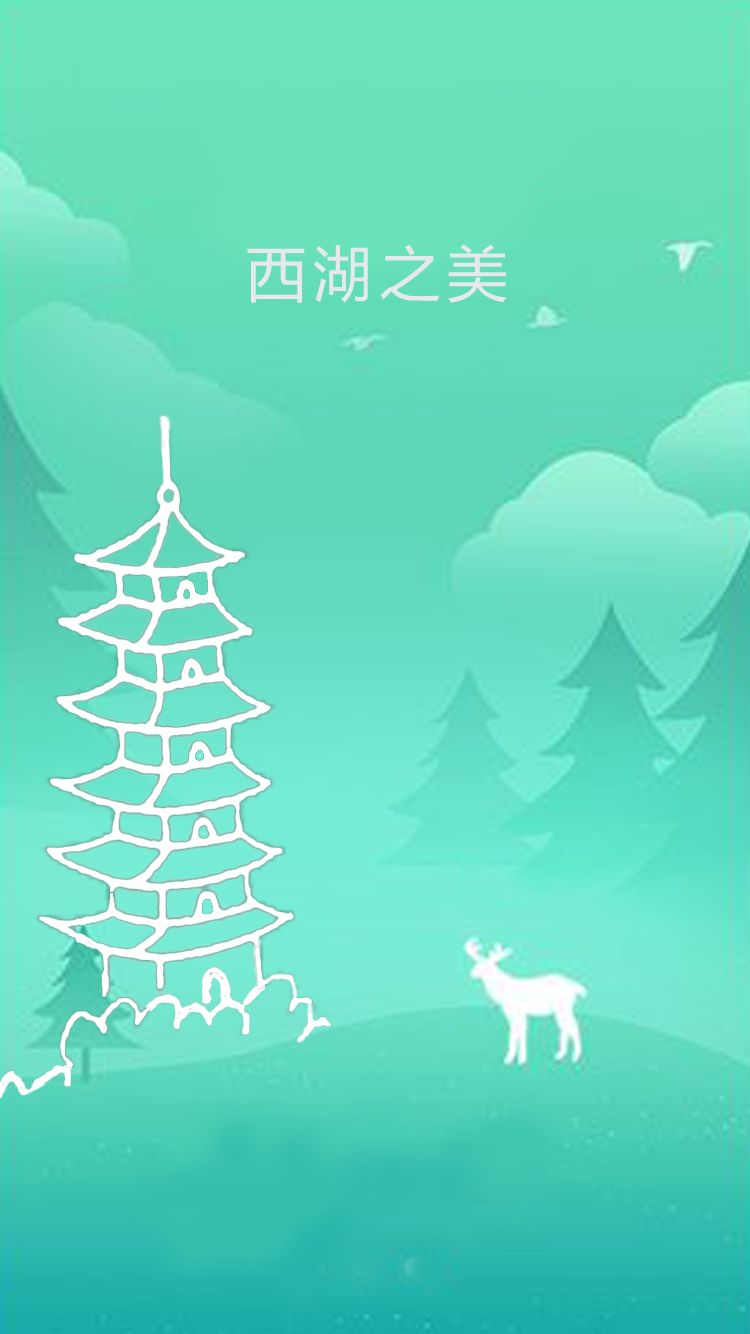
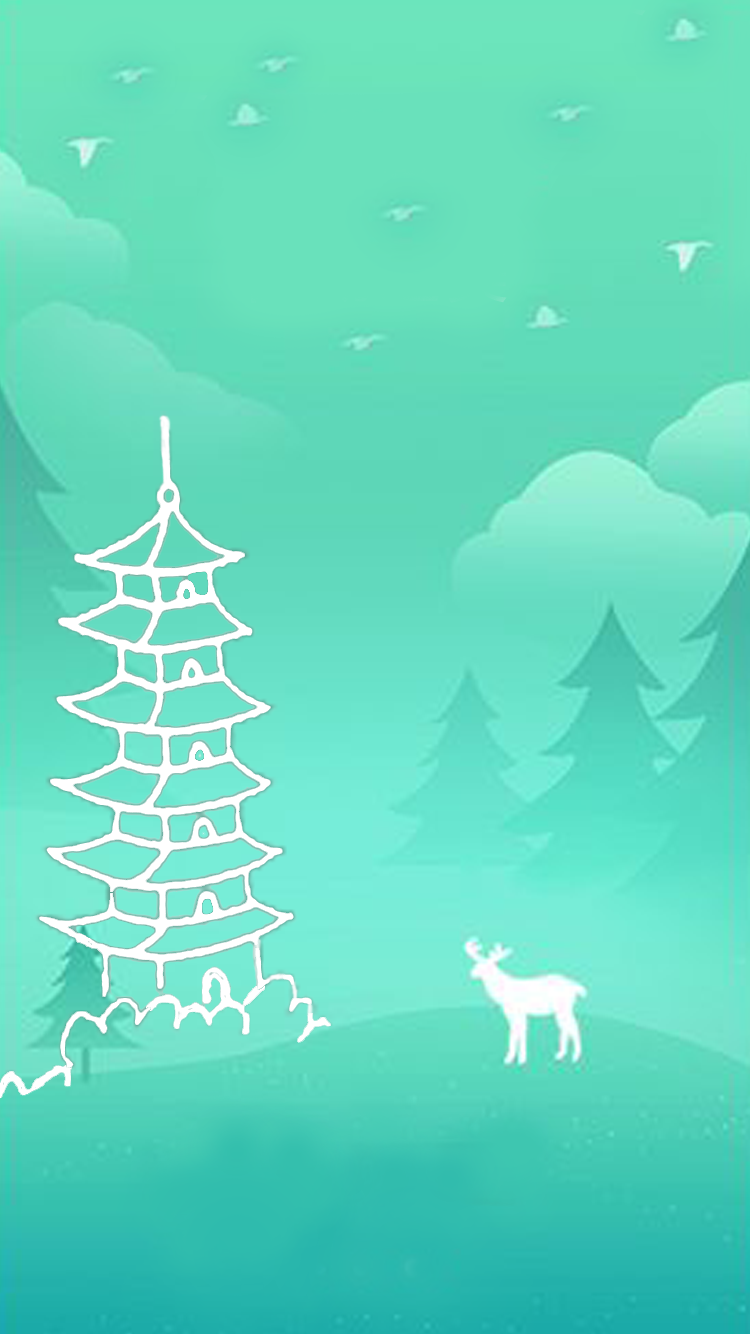
'b'

diff --git a/css/index.css b/css/index.css
@@ -80,72 +80,65 @@ html, body {
     background-image: url("../img/flash/flash1.png");
     background-size: cover;
     background-repeat: no-repeat; }
-    .swiper-container .swiper-wrapper .swiper-slide:nth-child(1) .bg11 {
-      width: 6.7rem;
-      height: 7rem;
-      margin: 2.8rem auto 0;
-      background-image: url("../img/flash/11.png");
-      background-size: cover;
-      background-repeat: no-repeat; }
   .swiper-container .swiper-wrapper .swiper-slide:nth-child(2) {
     background-image: url("../img/flash/flash2.png");
     background-size: cover;
     background-repeat: no-repeat; }
-    .swiper-container .swiper-wrapper .swiper-slide:nth-child(2) .bg11 {
-      width: 6.9rem;
-      height: 6.9rem;
-      margin: 2.8rem auto 0;
-      background-image: url("../img/flash/22.png");
-      background-size: cover;
-      background-repeat: no-repeat; }
   .swiper-container .swiper-wrapper .swiper-slide:nth-child(3) {
     background-image: url("../img/flash/flash3.png");
     background-size: cover;
     background-repeat: no-repeat; }
-    .swiper-container .swiper-wrapper .swiper-slide:nth-child(3) .bg11 {
-      width: 6.9rem;
-      height: 6.9rem;
-      margin: 2.8rem auto 0;
-      background-image: url("../img/flash/33.png");
-      background-size: cover;
-      background-repeat: no-repeat; }
   .swiper-container .swiper-wrapper .swiper-slide:nth-child(4) {
     background-image: url("../img/flash/flash4.png");
     background-size: cover;
     background-repeat: no-repeat; }
-    .swiper-container .swiper-wrapper .swiper-slide:nth-child(4) .bg11 {
-      width: 6.9rem;
-      height: 6.9rem;
-      margin: 2.8rem auto 0;
-      background-image: url("../img/flash/44.png");
-      background-size: cover;
-      background-repeat: no-repeat; }
   .swiper-container .swiper-wrapper .swiper-slide:nth-child(5) {
     background-image: url("../img/flash/flash5.png");
     background-size: cover;
     background-repeat: no-repeat; }
+    .swiper-container .swiper-wrapper .swiper-slide:nth-child(5) h4 {
+      width: 2.4rem;
+      height: 2.4rem;
+      margin: 2.5rem 0 0 3.8rem;
+      color: #FFFFFF;
+      font-size: 1rem;
+      line-height: 1.2rem;
+      font-weight: bolder; }
     .swiper-container .swiper-wrapper .swiper-slide:nth-child(5) a {
       width: 2.85rem;
       height: 0.7rem;
-      margin: 11.4rem auto 0;
+      margin: 6rem auto 0;
       display: block;
       background-image: url("../img/flash/jiaru.png");
       background-size: contain;
       background-repeat: no-repeat; }
-  .swiper-container .swiper-wrapper .swiper-slide .word {
-    width: 100%;
-    height: 1.5rem;
-    margin: 0.7rem auto 0;
-    display: flex;
+  .swiper-container .swiper-wrapper .swiper-slide h2 {
+    width: 3rem;
+    height: 0.6rem;
+    margin: 2.5rem auto 0;
+    text-align: center;
+    color: #FFFFFF;
     font-size: 0.6rem;
-    font-weight: bolder;
-    font-style: italic;
-    color: #ffffff;
-    justify-content: space-around; }
-    .swiper-container .swiper-wrapper .swiper-slide .word .word1 {
-      align-self: flex-start; }
-    .swiper-container .swiper-wrapper .swiper-slide .word .word2 {
-      align-self: flex-end; }
+    line-height: 0.6rem; }
+  .swiper-container .swiper-wrapper .swiper-slide h3 {
+    width: 1.2rem;
+    height: 3.4rem;
+    margin: 1rem 1rem 0 5rem; }
+    .swiper-container .swiper-wrapper .swiper-slide h3 p {
+      width: 50%;
+      height: 100%;
+      color: #FFFFFF;
+      line-height: 0.4rem;
+      font-size: 0.3rem;
+      text-align: center;
+      float: right;
+      writing-mode: vertical-rl;
+      font-weight: 200; }
+    .swiper-container .swiper-wrapper .swiper-slide h3 p:nth-child(2) {
+      padding-top: 0.6rem;
+      height: 4.2rem; }
+    .swiper-container .swiper-wrapper .swiper-slide h3 p:nth-child(1) {
+      padding-bottom: 0.6rem; }
 
 .login {
   width: 100%;
@@ -539,7 +532,7 @@ html, body {
             flex-wrap: wrap; }
   .shouye #xiaoxi {
     width: 100%;
-    display: block;
+    display: none;
     padding-bottom: 2rem; }
     .shouye #xiaoxi .head {
       width: 100%;

diff --git a/css/index.scss b/css/index.scss
@@ -75,62 +75,44 @@ html,body{
     background-image: url("../img/flash/flash1.png");
     background-size: cover;
     background-repeat: no-repeat;
-    .bg11{
-      width: 6.7rem;
-      height: 7rem;
-      margin: 2.8rem auto 0;
-      background-image: url("../img/flash/11.png");
-      background-size: cover;
-      background-repeat: no-repeat;
-    }
+
   }
   .swiper-wrapper .swiper-slide:nth-child(2){
     background-image: url("../img/flash/flash2.png");
     background-size: cover;
     background-repeat: no-repeat;
-    .bg11{
-      width: 6.9rem;
-      height: 6.9rem;
-      margin: 2.8rem auto 0;
-      background-image: url("../img/flash/22.png");
-      background-size: cover;
-      background-repeat: no-repeat;
-    }
+
   }
   .swiper-wrapper .swiper-slide:nth-child(3){
     background-image: url("../img/flash/flash3.png");
     background-size: cover;
     background-repeat: no-repeat;
-    .bg11{
-      width: 6.9rem;
-      height: 6.9rem;
-      margin: 2.8rem auto 0;
-      background-image: url("../img/flash/33.png");
-      background-size: cover;
-      background-repeat: no-repeat;
-    }
+
   }
   .swiper-wrapper .swiper-slide:nth-child(4){
     background-image: url("../img/flash/flash4.png");
     background-size: cover;
     background-repeat: no-repeat;
-    .bg11{
-      width: 6.9rem;
-      height: 6.9rem;
-      margin: 2.8rem auto 0;
-      background-image: url("../img/flash/44.png");
-      background-size: cover;
-      background-repeat: no-repeat;
-    }
+
   }
   .swiper-wrapper .swiper-slide:nth-child(5){
     background-image: url("../img/flash/flash5.png");
     background-size: cover;
     background-repeat: no-repeat;
+    h4{
+      width: 2.4rem;
+      height: 2.4rem;
+      margin: 2.5rem 0 0 3.8rem;
+      color: #FFFFFF;
+      font-size: 1rem;
+      line-height: 1.2rem;
+      font-weight:bolder;
+
+    }
     a{
       width: 2.85rem;
       height: 0.7rem;
-      margin: 11.4rem auto 0;
+      margin: 6rem auto 0;
       display: block;
       background-image: url("../img/flash/jiaru.png");
       background-size: contain;
@@ -138,21 +120,36 @@ html,body{
     }
   }
   .swiper-wrapper .swiper-slide{
-    .word{
-      width: 100%;
-      height: 1.5rem;
-      margin: 0.7rem auto 0;
-      display: flex;
+    h2{
+      width: 3rem;
+      height:0.6rem;
+      margin: 2.5rem auto 0;
+      text-align: center;
+      color: #FFFFFF;
       font-size: 0.6rem;
-      font-weight:bolder;
-      font-style: italic;
-      color: #ffffff;
-      justify-content:space-around;
-      .word1{
-        align-self:flex-start;
+      line-height: 0.6rem;
+    }
+    h3{
+      width: 1.2rem;
+      height: 3.4rem;
+      margin: 1rem 1rem 0 5rem;
+      p{
+        width: 50%;
+        height: 100%;
+        color: #FFFFFF;
+        line-height: 0.4rem;
+        font-size: 0.3rem;
+        text-align: center;
+        float: right;
+        writing-mode:vertical-rl;
+        font-weight: 200;
       }
-      .word2{
-        align-self:flex-end;
+      p:nth-child(2){
+        padding-top: 0.6rem;
+        height:4.2rem;
+      }
+      p:nth-child(1){
+        padding-bottom: 0.6rem;
       }
     }
   }
@@ -640,7 +637,7 @@ html,body{
   //消息
   #xiaoxi{
     width: 100%;
-    display: block;
+    display: none;
     padding-bottom: 2rem;
     .head{
       width: 100%;

diff --git a/index.html b/index.html
@@ -19,19 +19,36 @@
 <div class="swiper-container">
     <div class="swiper-wrapper">
         <div class="swiper-slide">
-
+            <h2 class="ani" swiper-animate-effect="zoomIn" swiper-animate-duration="0.8s" swiper-animate-delay="0.3s">巴黎之美</h2>
+            <h3>
+                <p class="ani" swiper-animate-effect="fadeInDown" swiper-animate-duration="0.8s" swiper-animate-delay="1s">你就是我的Eiffel</p>
+                <p class="ani" swiper-animate-effect="fadeInUp" swiper-animate-duration="0.8s" swiper-animate-delay="1.8s">给我倾城的温暖</p>
+            </h3>
         </div>
         <div class="swiper-slide">
-
+            <h2 class="ani" swiper-animate-effect="zoomIn" swiper-animate-duration="0.8s" swiper-animate-delay="0.3s">伦敦之夜</h2>
+            <h3>
+                <p class="ani" swiper-animate-effect="fadeInDown" swiper-animate-duration="0.8s" swiper-animate-delay="1s">深邃的天空</p>
+                <p class="ani" swiper-animate-effect="fadeInUp" swiper-animate-duration="0.8s" swiper-animate-delay="1.8s">我在异邦的街等你</p>
+            </h3>
         </div>
         <div class="swiper-slide">
-
+            <h2 class="ani" swiper-animate-effect="zoomIn" swiper-animate-duration="0.8s" swiper-animate-delay="0.3s">香港之珠</h2>
+            <h3>
+                <p class="ani" swiper-animate-effect="fadeInDown" swiper-animate-duration="0.8s" swiper-animate-delay="1s">东方之珠</p>
+                <p class="ani" swiper-animate-effect="fadeInUp" swiper-animate-duration="0.8s" swiper-animate-delay="1.8s">购物者的天堂</p>
+            </h3>
         </div>
         <div class="swiper-slide">
-
+            <h2 class="ani" swiper-animate-effect="zoomIn" swiper-animate-duration="0.8s" swiper-animate-delay="0.3s">西湖之水</h2>
+            <h3>
+                <p class="ani" swiper-animate-effect="fadeInDown" swiper-animate-duration="0.8s" swiper-animate-delay="1s">断桥残雪 风光旖旎</p>
+                <p class="ani" swiper-animate-effect="fadeInUp" swiper-animate-duration="0.8s" swiper-animate-delay="1.8s">静静地听着船浆激起的水声</p>
+            </h3>
         </div>
         <div class="swiper-slide">
-            <a href="login.html"></a>
+            <h4 class="ani" swiper-animate-effect="shake" swiper-animate-duration="0.8s" swiper-animate-delay="0.3s">说走就走</h4>
+            <a class="ani" swiper-animate-effect="swing" swiper-animate-duration="0.5s" swiper-animate-delay="1s" href="login.html"></a>
         </div>
     </div>
     <!-- 分页器 -->
